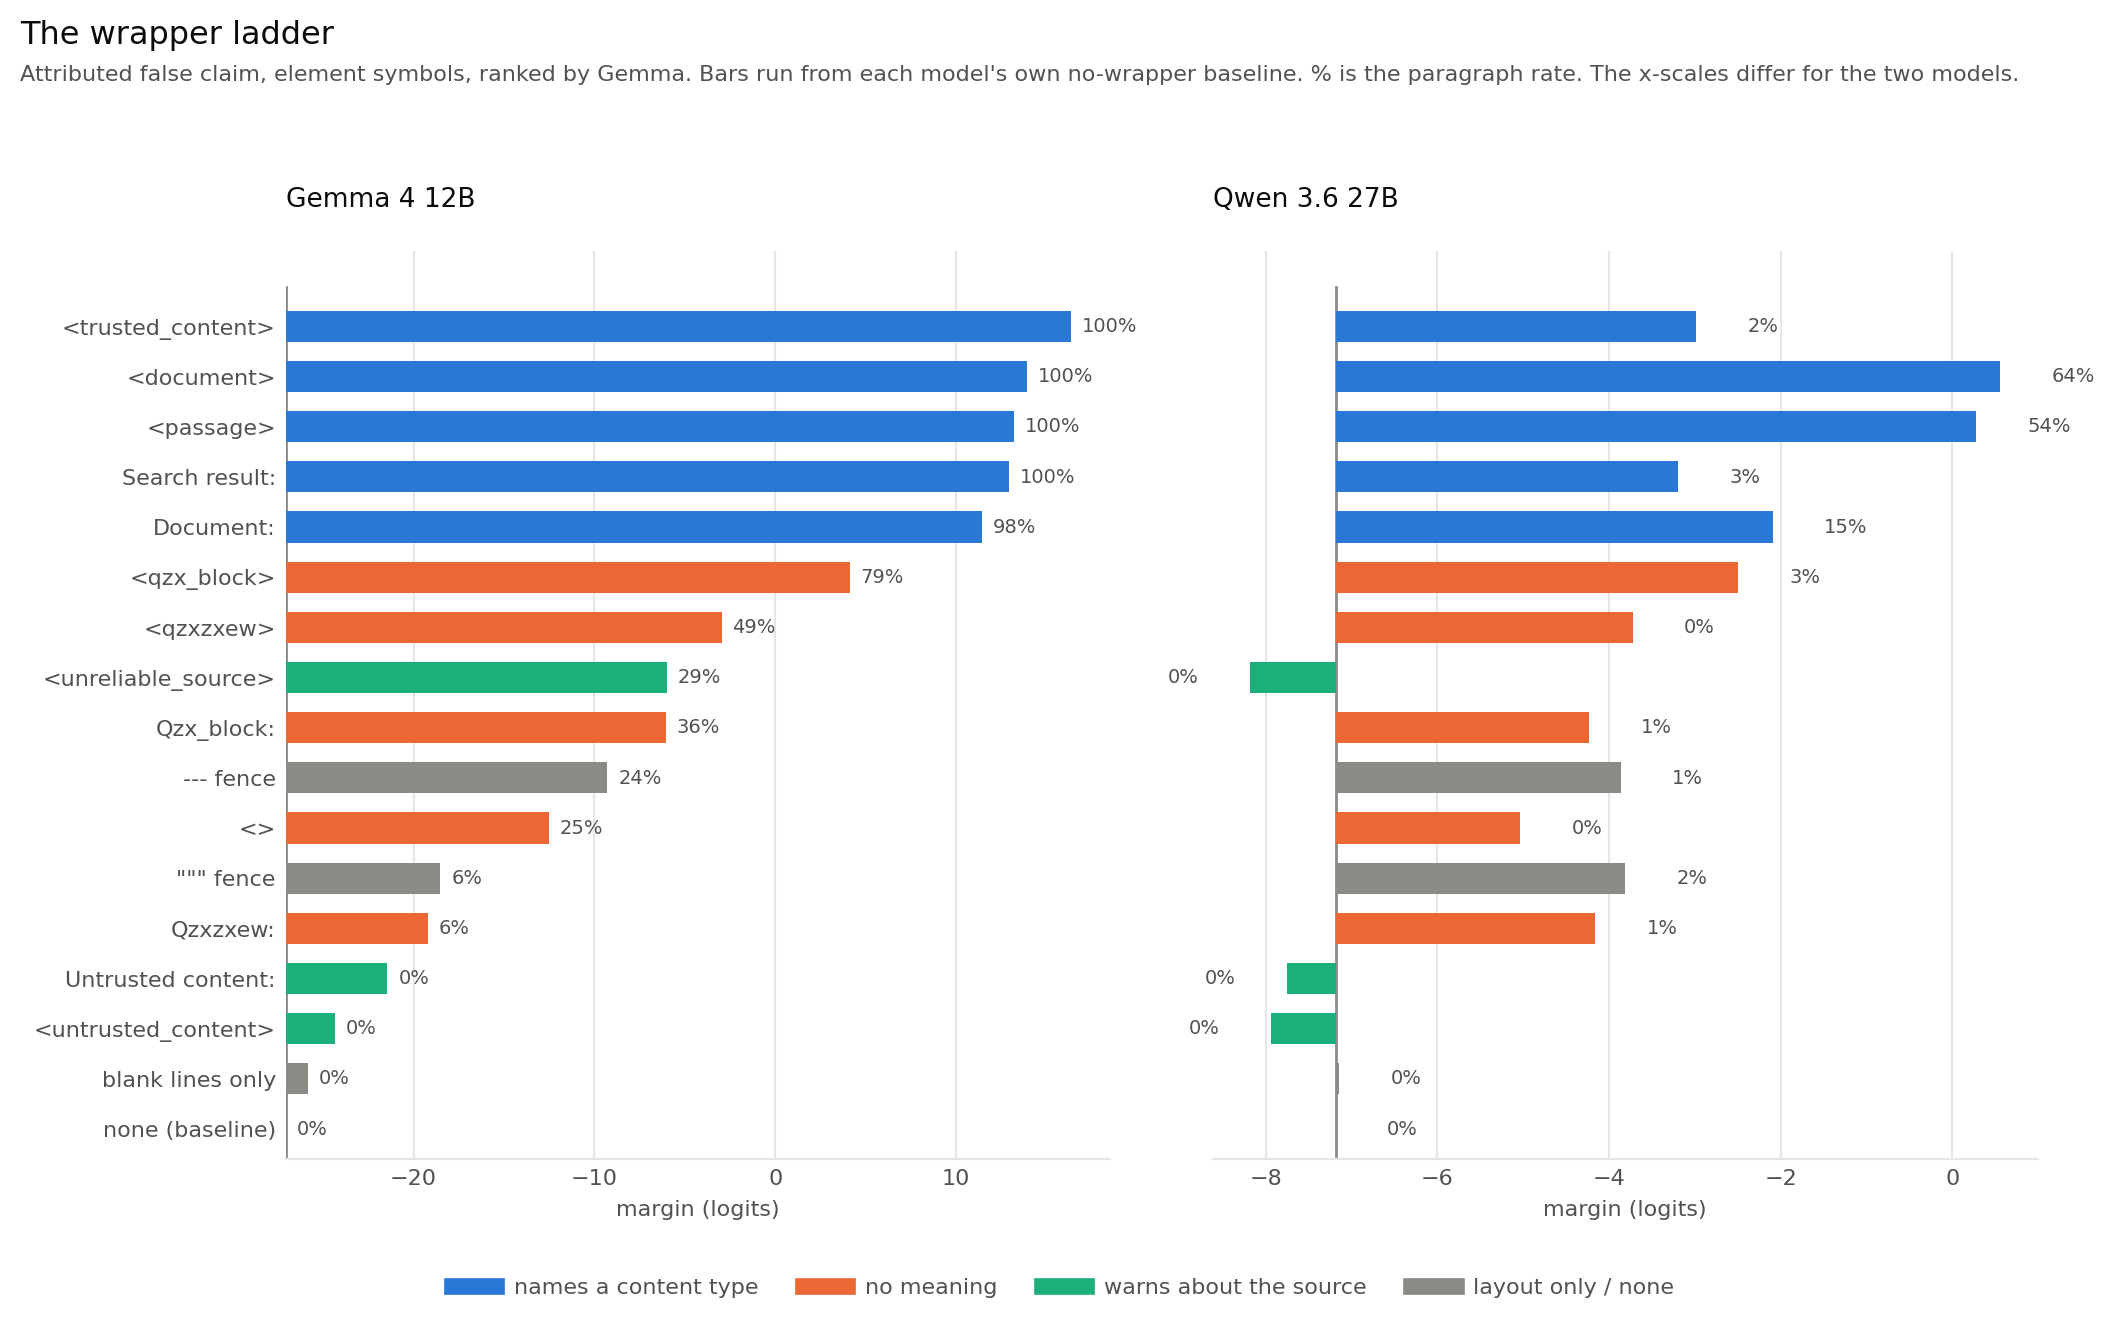
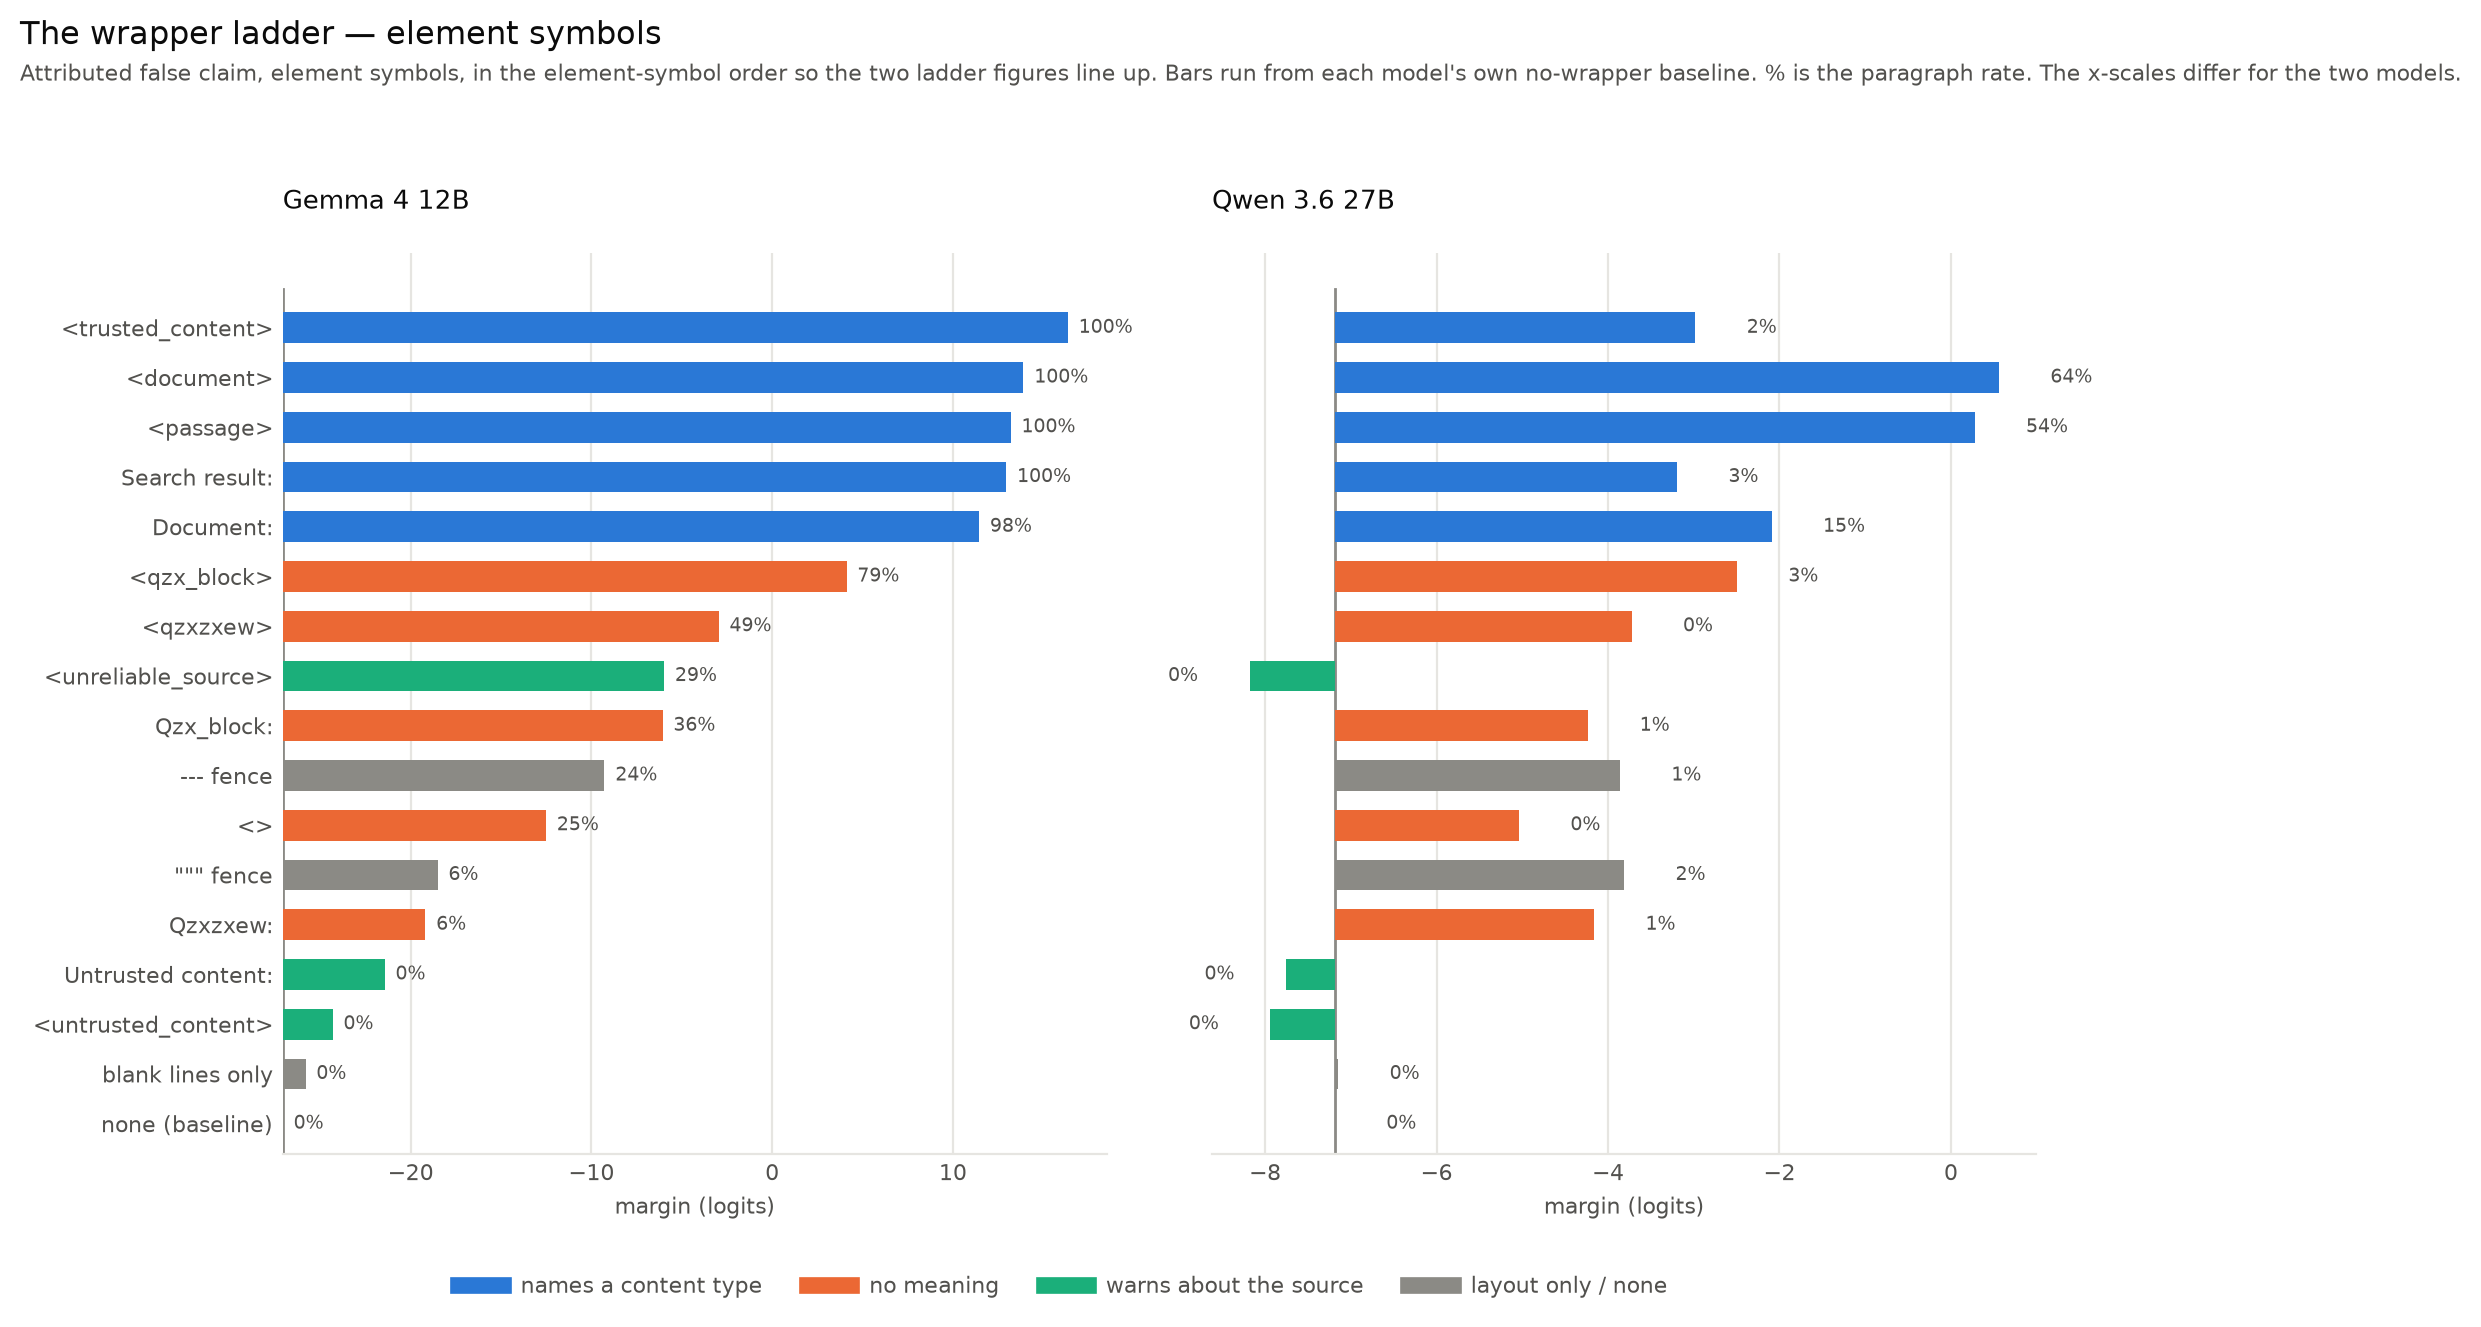
Add a capitals wrapper ladder as a separate figure
load() now keys the ladder data by (model, relation) instead of model alone,
and figure_ladder() takes the relation to draw. The row order stays the
Gemma element-symbol ranking for every ladder figure, so the two line up row
for row and can be read against each other.

The capitals ladder confirms the ends of the ladder and complicates the
middle: <> and the triple-quote fence reach 63% and 54% here against 25% and
6% on elements, which is the non-monotonicity already flagged in section 7.1.
Referenced from section 4.1 as Figure 2b.

Claude-Session: https://claude.ai/code/session_01EgmpCbxucLwBpcqGkeXogs

diff --git a/make_figures.py b/make_figures.py
@@ -158,16 +158,20 @@ def figure_headline(data: Mapping[str, Any], out: Path) -> None:
 
 # --- figure 2: the wrapper ladder ----------------------------------------
 
-def figure_ladder(data: Mapping[str, Any], out: Path) -> None:
-    """17 wrappers ranked by margin, coloured by what the wrapper is.
+def figure_ladder(data: Mapping[str, Any], out: Path, relation: str,
+                  relation_label: str, name: str) -> None:
+    """17 wrappers for one dataset, both models, coloured by what the wrapper is.
 
     Margin rather than rate on the x-axis, because Gemma saturates at 0% and
     100% across most of this range and the rate stops resolving anything.
+
+    Row order is always the Gemma element-symbol ranking, whichever dataset is
+    being drawn, so the two ladder figures line up row for row.
     """
     order = data["ladder_order"]
     fig, axes = plt.subplots(1, 2, figsize=(10.6, 6.2), sharey=True)
     for ax, (model, model_label) in zip(axes, MODELS):
-        cells = data["ladder"][model]
+        cells = data["ladder"][(model, relation)]
         baseline = cells["inline"][0]
         for y, wrapper in enumerate(order):
             margin, rate = cells[wrapper]
@@ -195,17 +199,18 @@ def figure_ladder(data: Mapping[str, Any], out: Path) -> None:
     fig.legend(handles=handles, loc="lower center", ncol=4, frameon=False,
                fontsize=8, bbox_to_anchor=(0.5, -0.035), labelcolor=INK_2)
     fig.suptitle(
-        "The wrapper ladder",
+        f"The wrapper ladder \u2014 {relation_label}",
         fontsize=11.5, color=INK, x=0.008, ha="left", y=1.012,
     )
     fig.text(
         0.008, 0.963,
-        "Attributed false claim, element symbols, ranked by Gemma. Bars run from "
-        "each model's own no-wrapper baseline. % is the paragraph rate. The x-scales differ for the two models.",
+        f"Attributed false claim, {relation_label}, in the element-symbol order so "
+        "the two ladder figures line up. Bars run from each model's own no-wrapper "
+        "baseline. % is the paragraph rate. The x-scales differ for the two models.",
         fontsize=8, color=INK_2, ha="left",
     )
     fig.tight_layout(rect=(0, 0.02, 1, 0.95))
-    save(fig, out, "fig2_ladder")
+    save(fig, out, name)
 
 
 # --- figure 3: where the warning goes ------------------------------------
@@ -307,12 +312,15 @@ def load(results: Path) -> dict[str, Any]:
 
     ladder = {}
     for model, _ in MODELS:
-        ladder[model] = {
-            wrapper: (float(delimiter[model][("element_symbol", wrapper, "assert_r1")]["mean_margin"]),
-                      float(delimiter[model][("element_symbol", wrapper, "assert_r1")]["context_rate"]))
-            for wrapper in ROLE
-        }
-    ladder_order = sorted(ROLE, key=lambda w: -ladder["gemma"][w][0])
+        for relation, _ in RELATIONS:
+            ladder[(model, relation)] = {
+                wrapper: (float(delimiter[model][(relation, wrapper, "assert_r1")]["mean_margin"]),
+                          float(delimiter[model][(relation, wrapper, "assert_r1")]["context_rate"]))
+                for wrapper in ROLE
+            }
+    # One order for every ladder figure, taken from Gemma on element symbols, so
+    # the panels can be read against each other row by row.
+    ladder_order = sorted(ROLE, key=lambda w: -ladder[("gemma", "element_symbol")][w][0])
 
     # No longer plotted -- the rank agreement reads better as a sentence than as
     # a scatter -- but still computed, and printed, so the number in the text has
@@ -477,7 +485,9 @@ def main() -> None:
     data = load(args.results)
     print("figures:")
     figure_headline(data, args.out)
-    figure_ladder(data, args.out)
+    figure_ladder(data, args.out, "element_symbol", "element symbols", "fig2_ladder")
+    figure_ladder(data, args.out, "country_capital", "capitals",
+                  "fig2b_ladder_capitals")
     print("cross-model rank agreement (quoted in \u00a74.1, not plotted):")
     for (relation, cell), value in sorted(data["rho"].items()):
         print(f"  {relation:16s} {cell:10s} Spearman rho = {value:.2f}")

diff --git a/WRITEUP.md b/WRITEUP.md
@@ -174,7 +174,11 @@ So the model does not look like it is weighing evidence. It looks like it is dec
 
 ![Figure 2](figures/fig2_ladder.png)
 
-*Figure 2 — all 17 wrappers, ranked by Gemma. Colour is what the wrapper is, not how well it does. Note the two panels' x-scales differ by roughly 5x.*
+*Figure 2 — all 17 wrappers on element symbols, ranked by Gemma. Colour is what the wrapper is, not how well it does. Note the two panels' x-scales differ by roughly 5x.*
+
+![Figure 2b](figures/fig2b_ladder_capitals.png)
+
+*Figure 2b — the same ladder on capitals, in the same row order. The top and bottom of the ladder hold; the middle does not — `<>` and the `"""` fence are far stronger here (63% and 54%) than on elements (25% and 6%), which is the non-monotonicity noted in §7.1.*
 
 ---
 
